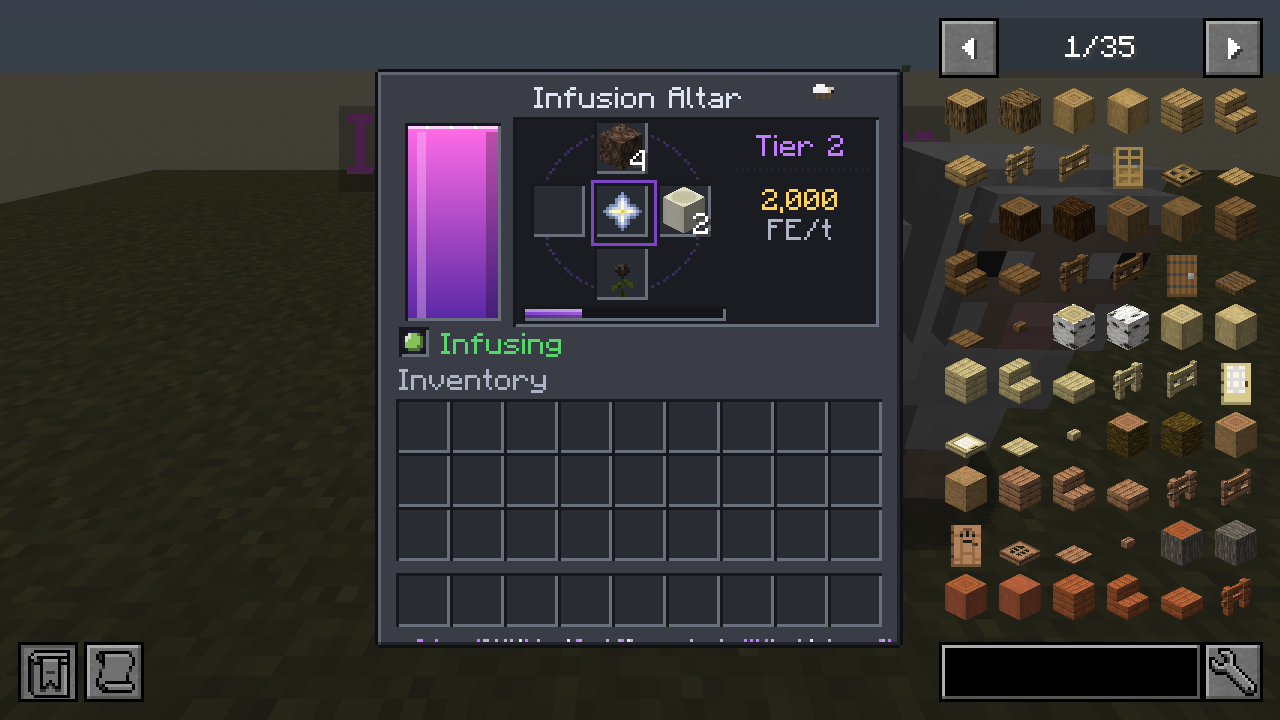
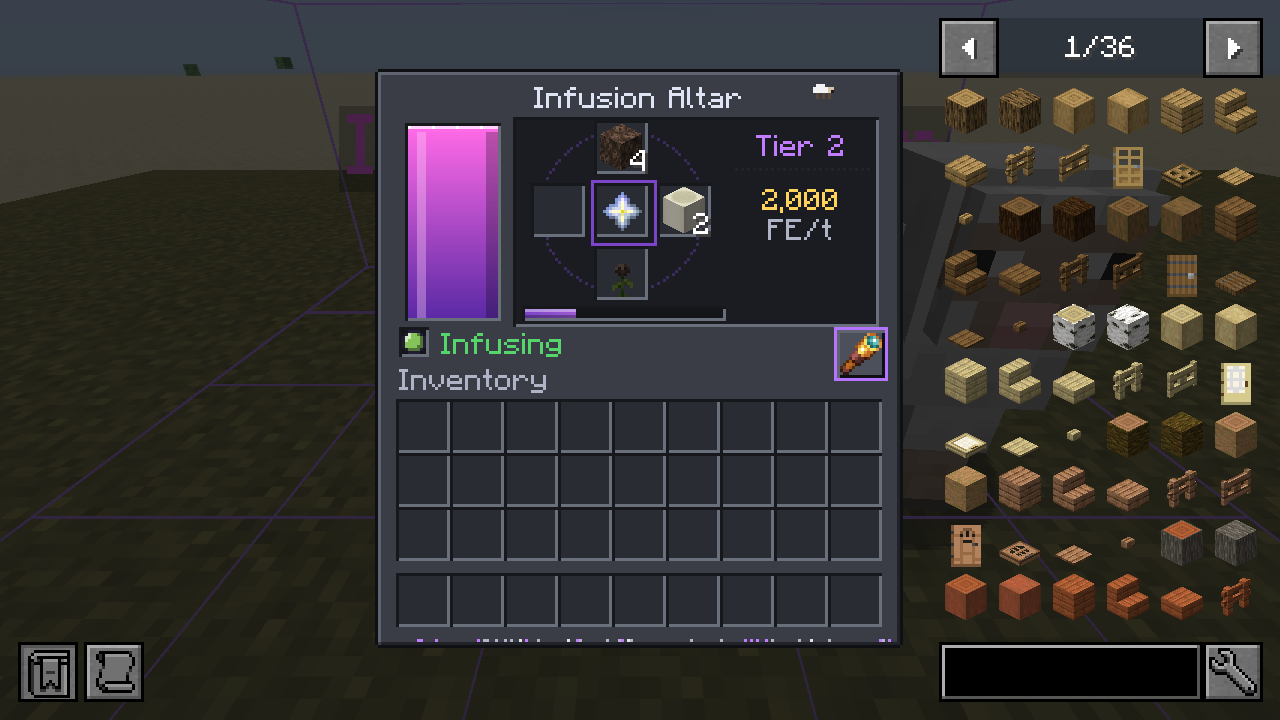
Show the Infusion Altar's area like the shears and furnace
A spyglass button in the altar's window, or a sneak-right-click with an empty
hand, outlines in purple the 5x5x3 area a sheep must stand in. The setting is
saved and synced to clients like the Automatic Shears' and Blaze Furnace's.

Claude-Session: https://claude.ai/code/session_012iurxobutw9xMP3SqHHLFE

diff --git a/src/main/java/com/jax3/barelyfunctionalcontraptions/sheep/blockentity/InfusionAltarBlockEntity.java b/src/main/java/com/jax3/barelyfunctionalcontraptions/sheep/blockentity/InfusionAltarBlockEntity.java
@@ -58,10 +58,12 @@ import org.jspecify.annotations.Nullable;
  *     <li>Hoppers and pipes can put feeding items and catalysts in from any side, but can't take anything out.</li>
  * </ul>
  */
-public class InfusionAltarBlockEntity extends BlockEntity implements WorldlyContainer, MenuProvider {
+public class InfusionAltarBlockEntity extends BlockEntity implements WorldlyContainer, MenuProvider, AreaDisplay {
+    /** The area outline's colour: the altar's amethyst purple. */
+    public static final int AREA_COLOR = 0xFFB574FF;
     public static final int FEED = 0, SIZE = 1 + AltarRitual.MAX_CATALYSTS;
     public static final int REACH = 2;
-    public static final int DATA_COUNT = 10;
+    public static final int DATA_COUNT = 11;
     private static final int[] SLOTS = {0, 1, 2, 3, 4};
 
     private final NonNullList<ItemStack> items = NonNullList.withSize(SIZE, ItemStack.EMPTY);
@@ -73,6 +75,8 @@ public class InfusionAltarBlockEntity extends BlockEntity implements WorldlyCont
     private int sheepId = -1;
     /** The sheep this altar slowed down, whose Slowness it takes off again; not saved: the effect wears off by itself. */
     private int slowedId = -1;
+    /** Whether the area a sheep must stand in is outlined; saved, and synced to clients. */
+    private boolean showArea;
 
     private final ContainerData data = new ContainerData() {
         @Override
@@ -88,6 +92,7 @@ public class InfusionAltarBlockEntity extends BlockEntity implements WorldlyCont
                 case 7 -> energyPerTick >>> 16;
                 case 8 -> status.ordinal();
                 case 9 -> sheepId >= 0 ? 1 : 0;
+                case 10 -> showArea ? 1 : 0;
                 default -> 0;
             };
         }
@@ -227,9 +232,39 @@ public class InfusionAltarBlockEntity extends BlockEntity implements WorldlyCont
         return used;
     }
 
+    /**
+     * Where a sheep must stand to be infused: within {@link #REACH} blocks sideways (5x5 columns) and one block up or
+     * down, so a sheep on the floor beside the pedestal or on a step counts.
+     */
+    public static AABB sheepArea(BlockPos pos) {
+        return new AABB(pos).inflate(REACH, 1, REACH);
+    }
+
+    @Override
+    public boolean showsArea() {
+        return showArea;
+    }
+
+    @Override
+    public void setShowsArea(boolean show) {
+        showArea = show;
+        setChanged();
+        if (level != null) level.sendBlockUpdated(worldPosition, getBlockState(), getBlockState(), Block.UPDATE_CLIENTS);
+    }
+
+    @Override
+    public AABB displayedArea() {
+        return sheepArea(worldPosition);
+    }
+
+    @Override
+    public int areaColor() {
+        return AREA_COLOR;
+    }
+
     /** The nearest grown, infusable sheep within reach that can take {@code resource} now. */
     private static @Nullable LivingEntity findSheep(ServerLevel level, BlockPos pos, SheepResource resource) {
-        AABB area = new AABB(pos).inflate(REACH, 1, REACH);
+        AABB area = sheepArea(pos);
         Vec3 centre = Vec3.atCenterOf(pos);
         return level.getEntitiesOfClass(LivingEntity.class, area, e -> ModTags.isInfusable(e) && e.isAlive()
                         && SheepInfusionEvents.checkSheep(e, resource, false) == null)
@@ -403,6 +438,7 @@ public class InfusionAltarBlockEntity extends BlockEntity implements WorldlyCont
         ContainerHelper.loadAllItems(in, items);
         in.child("energy").ifPresent(energy::deserialize);
         progress = in.getIntOr("progress", 0);
+        showArea = in.getBooleanOr("show_area", false);
     }
 
     @Override
@@ -411,5 +447,31 @@ public class InfusionAltarBlockEntity extends BlockEntity implements WorldlyCont
         ContainerHelper.saveAllItems(out, items);
         energy.serialize(out.child("energy"));
         out.putInt("progress", progress);
+        out.putBoolean("show_area", showArea);
+    }
+
+    // ------------------------------------------------------------------ client sync (the area outline)
+
+    @Override
+    public net.minecraft.network.protocol.Packet<net.minecraft.network.protocol.game.ClientGamePacketListener> getUpdatePacket() {
+        return net.minecraft.network.protocol.game.ClientboundBlockEntityDataPacket.create(this);
+    }
+
+    /** Clients only need the area setting. */
+    @Override
+    public net.minecraft.nbt.CompoundTag getUpdateTag(net.minecraft.core.HolderLookup.Provider registries) {
+        net.minecraft.nbt.CompoundTag tag = new net.minecraft.nbt.CompoundTag();
+        tag.putBoolean("show_area", showArea);
+        return tag;
+    }
+
+    @Override
+    public void onDataPacket(net.minecraft.network.Connection net, ValueInput input) {
+        showArea = input.getBooleanOr("show_area", false);
+    }
+
+    @Override
+    public void handleUpdateTag(ValueInput input) {
+        showArea = input.getBooleanOr("show_area", false);
     }
 }

diff --git a/src/main/java/com/jax3/barelyfunctionalcontraptions/sheep/menu/InfusionAltarMenu.java b/src/main/java/com/jax3/barelyfunctionalcontraptions/sheep/menu/InfusionAltarMenu.java
@@ -25,6 +25,9 @@ public class InfusionAltarMenu extends AbstractContainerMenu {
     private static final int PLAYER_START = InfusionAltarBlockEntity.SIZE;
     private static final int PLAYER_END = PLAYER_START + 36;
 
+    /** Menu button: show or hide the area a sheep must stand in. */
+    public static final int BUTTON_AREA = 0;
+
     private final ContainerLevelAccess access;
     private final ContainerData data;
     private final Player player;
@@ -85,6 +88,15 @@ public class InfusionAltarMenu extends AbstractContainerMenu {
     }
 
     @Override
+    public boolean clickMenuButton(Player player, int id) {
+        if (id != BUTTON_AREA) return false;
+        access.execute((level, pos) -> {
+            if (level.getBlockEntity(pos) instanceof InfusionAltarBlockEntity be) be.toggleArea(player);
+        });
+        return true;
+    }
+
+    @Override
     public boolean stillValid(Player player) {
         return stillValid(access, player, ModBlocks.INFUSION_ALTAR.get());
     }
@@ -100,6 +112,7 @@ public class InfusionAltarMenu extends AbstractContainerMenu {
     public int getEnergyPerTick() { return int32(6); }
     public AltarStatus getStatus() { return AltarStatus.byId(data.get(8)); }
     public boolean hasSheep() { return data.get(9) != 0; }
+    public boolean isShowingArea() { return data.get(10) != 0; }
 
     public float getEnergyFraction() {
         int capacity = getCapacity();

diff --git a/src/main/java/com/jax3/barelyfunctionalcontraptions/sheep/gametest/ModGameTests.java b/src/main/java/com/jax3/barelyfunctionalcontraptions/sheep/gametest/ModGameTests.java
@@ -961,6 +961,12 @@ public final class ModGameTests {
         Sheep tough = sheepAt(h, new BlockPos(6, 1, 5), null);
         SheepInfusionEvents.setStats(tough, new com.jax3.barelyfunctionalcontraptions.sheep.entity.SheepStats(1, 1, 10));
         h.assertTrue(com.jax3.barelyfunctionalcontraptions.sheep.blockentity.InfusionAltarBlockEntity.isCatalyst(h.getLevel(), new ItemStack(Items.SOUL_SAND)), "soul sand is a catalyst");
+        // Its area outline: off at first, toggled like the shears' and furnace's, and the 5x5x3 box the sheep search uses.
+        h.assertFalse(iron.showsArea(), "the area outline starts hidden");
+        h.assertTrue(iron.toggleArea() && iron.showsArea(), "and toggles on");
+        var box = iron.displayedArea();
+        h.assertTrue(box.getXsize() == 5 && box.getZsize() == 5 && box.getYsize() == 3 && box.contains(net.minecraft.world.phys.Vec3.atCenterOf(h.absolutePos(new BlockPos(6, 1, 5)))),
+                "it covers 5x5 columns, 3 high, round the altar, was " + box);
         h.assertFalse(iron.canPlaceItem(0, new ItemStack(Items.DIRT)), "dirt isn't a feeding item");
         h.runAfterDelay(130, () -> {
             h.assertTrue(noRose.status() == com.jax3.barelyfunctionalcontraptions.sheep.blockentity.AltarStatus.MISSING_CATALYSTS, "waits for the Wither Rose, was " + noRose.status());

diff --git a/src/main/java/com/jax3/barelyfunctionalcontraptions/sheep/client/InfusionAltarScreen.java b/src/main/java/com/jax3/barelyfunctionalcontraptions/sheep/client/InfusionAltarScreen.java
@@ -35,6 +35,8 @@ public class InfusionAltarScreen extends AbstractContainerScreen<InfusionAltarMe
     private static final int TEXT_COLOR = 0xFFDFE4F5, TEXT_DIM = 0xFFAEB4C6, TIER_COLOR = 0xFFC27CFF, USE_COLOR = 0xFFFFD25A;
     private static final int INFO_CENTRE = 142;
     private static final int LAMP_X = 9, LAMP_Y = 87, LAMP_U = 186, LAMP_V = 194;
+    /** The show-area button, right of the status line; its background is at (176, 146) in the texture. */
+    private static final int AREA_X = 154, AREA_Y = 87, BUTTON_U = 176, BUTTON_V = 146;
 
     public InfusionAltarScreen(InfusionAltarMenu menu, Inventory inventory, Component title) {
         super(menu, inventory, title, 176, 193);
@@ -45,6 +47,8 @@ public class InfusionAltarScreen extends AbstractContainerScreen<InfusionAltarMe
     protected void init() {
         super.init();
         this.titleLabelX = (imageWidth - font.width(title)) / 2;
+        addRenderableWidget(new AreaToggleButton(leftPos + AREA_X, topPos + AREA_Y, TEXTURE, BUTTON_U, BUTTON_V,
+                menu::isShowingArea, InfusionAltarBlockEntity.AREA_COLOR, menu.containerId, InfusionAltarMenu.BUTTON_AREA));
     }
 
     private Optional<SheepResource> resource() {

diff --git a/tools/sheep/generate_textures.py b/tools/sheep/generate_textures.py
@@ -3048,6 +3048,7 @@ def generate_infusion_altar():
 
 def generate_infusion_altar_gui():
     sep = Image.open(out("gui/mechanical_separator.png")).convert("RGBA")
+    shears = Image.open(out("gui/automatic_shears.png")).convert("RGBA")
     img = Image.new("RGBA", (256, 256), CLEAR)
     panel(img, 0, 0, 176, 193)
     inset(img, 10, 18, 42, 84, GUI["gauge"])          # energy gauge, fill 11..40 x 19..82
@@ -3099,6 +3100,7 @@ def generate_infusion_altar_gui():
         img.putpixel((176 + x, 80), mix(c, WHITE, 0.4))
         img.putpixel((176 + x, 81), c)
         img.putpixel((176 + x, 82), shade(c, 0.7))
+    img.paste(shears.crop((176, 64, 208, 80)), (176, 146))          # show-area button background, normal and hovered
     img.save(out("gui/infusion_altar.png"))
 
 

diff --git a/src/main/java/com/jax3/barelyfunctionalcontraptions/sheep/blocks/InfusionAltarBlock.java b/src/main/java/com/jax3/barelyfunctionalcontraptions/sheep/blocks/InfusionAltarBlock.java
@@ -64,7 +64,10 @@ public class InfusionAltarBlock extends BaseEntityBlock {
 
     @Override
     protected InteractionResult useWithoutItem(BlockState state, Level level, BlockPos pos, Player player, BlockHitResult hit) {
-        if (!level.isClientSide() && level.getBlockEntity(pos) instanceof InfusionAltarBlockEntity be) player.openMenu(be, pos);
+        if (level.isClientSide() || !(level.getBlockEntity(pos) instanceof InfusionAltarBlockEntity be)) return InteractionResult.SUCCESS;
+        // Sneak-right-click with an empty hand shows or hides the area a sheep must stand in.
+        if (player.isSecondaryUseActive()) be.toggleArea(player);
+        else player.openMenu(be, pos);
         return InteractionResult.SUCCESS;
     }
 

diff --git a/src/main/java/com/jax3/barelyfunctionalcontraptions/sheep/client/ResourcefulSheepClient.java b/src/main/java/com/jax3/barelyfunctionalcontraptions/sheep/client/ResourcefulSheepClient.java
@@ -65,6 +65,8 @@ public final class ResourcefulSheepClient {
                     com.jax3.barelyfunctionalcontraptions.sheep.registry.ModBlockEntities.AUTOMATIC_SHEARS.get(), context -> new AreaOutlineRenderer<>());
             event.registerBlockEntityRenderer(
                     com.jax3.barelyfunctionalcontraptions.sheep.registry.ModBlockEntities.BLAZE_FURNACE.get(), context -> new AreaOutlineRenderer<>());
+            event.registerBlockEntityRenderer(
+                    com.jax3.barelyfunctionalcontraptions.sheep.registry.ModBlockEntities.INFUSION_ALTAR.get(), context -> new AreaOutlineRenderer<>());
         });
 
         NeoForge.EVENT_BUS.addListener(ResourcefulSheepClient::onRecipesReceived);

diff --git a/src/main/java/com/jax3/barelyfunctionalcontraptions/sheep/client/DevScreenshotHarness.java b/src/main/java/com/jax3/barelyfunctionalcontraptions/sheep/client/DevScreenshotHarness.java
@@ -1801,6 +1801,11 @@ public final class DevScreenshotHarness {
                     }
                 });
             }
+            // Show the area a sheep must stand in, with the window's spyglass button, as a player would.
+            case 124 -> {
+                if (mc.player != null && mc.gameMode != null) mc.gameMode.handleInventoryButtonClick(mc.player.containerMenu.containerId,
+                        com.jax3.barelyfunctionalcontraptions.sheep.menu.InfusionAltarMenu.BUTTON_AREA);
+            }
             case 150 -> shot(mc, "93_altar_infusing_gui");
             case 152 -> {
                 if (mc.player != null) mc.player.closeContainer();

diff --git a/docs/REFERENCE.md b/docs/REFERENCE.md
@@ -266,6 +266,8 @@ Most resources are **tier 1** and are fed by hand. The **Wither, Dragon and Ward
 
 The **Infusion Altar** is a powered pedestal. Put the feeding item in its **centre slot** and the **catalysts** in the four slots around it, give it power, and stand a grown sheep **within 2 blocks** of it. A stream of the resource's colour runs from the altar to the sheep, which is held nearly still with Slowness (only the sheep, and only until the infusion ends). When the bar fills the sheep is infused. The items and power are only used when it finishes.
 
+**Showing the area:** click the spyglass button right of the status line in the altar's window, or sneak-right-click the altar with an empty hand, to outline in purple where a sheep must stand: 5x5 columns centred on the altar, from one block below it to one above. Do it again to hide it. The setting is saved with the altar, like the Automatic Shears' and Blaze Sheep Furnace's.
+
 | Sheep | Feeding item | Catalysts | Power |
 |---|---|---|---|
 | Wither | Nether Star | 4 Soul Sand, 2 Bone Blocks, 1 Wither Rose | 200,000 FE |
@@ -287,7 +289,7 @@ The **Infusion Altar** is a powered pedestal. Put the feeding item in its **cent
 |---|---|
 | ![The Infusion Altar window with a Nether Star in the centre and Soul Sand above; the tooltip lists Needs 1 x Nether Star, 4 x Soul Sand, then 2 x Bone Block and 1 x Wither Rose in red, and 200,000 FE](screenshots/92_altar_catalyst_tooltip.png) | ![The window with all four catalysts in, Tier 2, 2,000 FE/t, the progress bar filling and status Infusing](screenshots/93_altar_infusing_gui.png) |
 
-![The Infusion Altar, a steel and amethyst pedestal, with a sheep beside it being infused](screenshots/94_altar_infusing.png)
+![The Infusion Altar, a steel and amethyst pedestal, with a sheep beside it being infused, inside the purple outline of the area a sheep must stand in](screenshots/94_altar_infusing.png)
 
 ### 2. Shear it
 Shears and dispensers both work. An infused sheep drops **resource wool** (e.g. *Iron Wool*) **instead of** its normal wool. When the infusion runs out the sheep goes back to normal.

diff --git a/docs/CURSEFORGE.md b/docs/CURSEFORGE.md
@@ -125,9 +125,9 @@ All 24 built-in sheep:
 
 ### Infusion Altar
 
-The Wither, Dragon and Warden sheep are tier 2 and can only be infused at a powered Infusion Altar. Put the feeding item in the centre and the catalysts round it, and stand a sheep within 2 blocks. The altar slows the sheep while it works. Tier 1 resources work there too, so it can infuse a pen on its own.
+The Wither, Dragon and Warden sheep are tier 2 and can only be infused at a powered Infusion Altar. Put the feeding item in the centre and the catalysts round it, and stand a sheep within 2 blocks. The altar slows the sheep while it works, and can outline the area the sheep must stand in, like the Automatic Shears and Blaze Furnace. Tier 1 resources work there too, so it can infuse a pen on its own.
 
-![An Infusion Altar streaming particles into the sheep beside it](https://raw.githubusercontent.com/JAX3/Barely-Functional-Contraptions/main/docs/screenshots/94_altar_infusing.png)
+![An Infusion Altar streaming particles into the sheep beside it, inside the purple outline of its area](https://raw.githubusercontent.com/JAX3/Barely-Functional-Contraptions/main/docs/screenshots/94_altar_infusing.png)
 
 ### Breeding Sheep
 

diff --git a/README.md b/README.md
@@ -119,9 +119,9 @@ All 24 built-in sheep:
 
 ### Infusion Altar
 
-The Wither, Dragon and Warden sheep are tier 2 and can only be infused at a powered Infusion Altar. Put the feeding item in the centre and the catalysts round it, and stand a sheep within 2 blocks. The altar slows the sheep while it works. Tier 1 resources work there too, so it can infuse a pen on its own.
+The Wither, Dragon and Warden sheep are tier 2 and can only be infused at a powered Infusion Altar. Put the feeding item in the centre and the catalysts round it, and stand a sheep within 2 blocks. The altar slows the sheep while it works, and can outline the area the sheep must stand in, like the Automatic Shears and Blaze Furnace. Tier 1 resources work there too, so it can infuse a pen on its own.
 
-![An Infusion Altar streaming particles into the sheep beside it](docs/screenshots/94_altar_infusing.png)
+![An Infusion Altar streaming particles into the sheep beside it, inside the purple outline of its area](docs/screenshots/94_altar_infusing.png)
 
 ### Breeding Sheep
 
